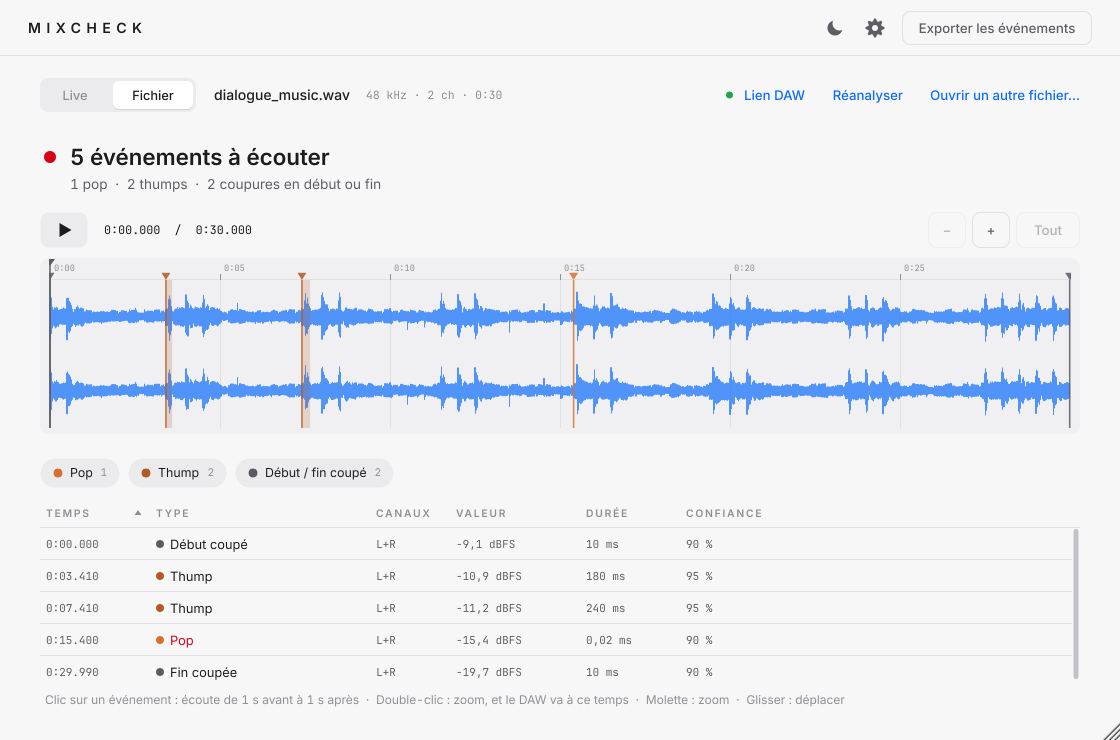
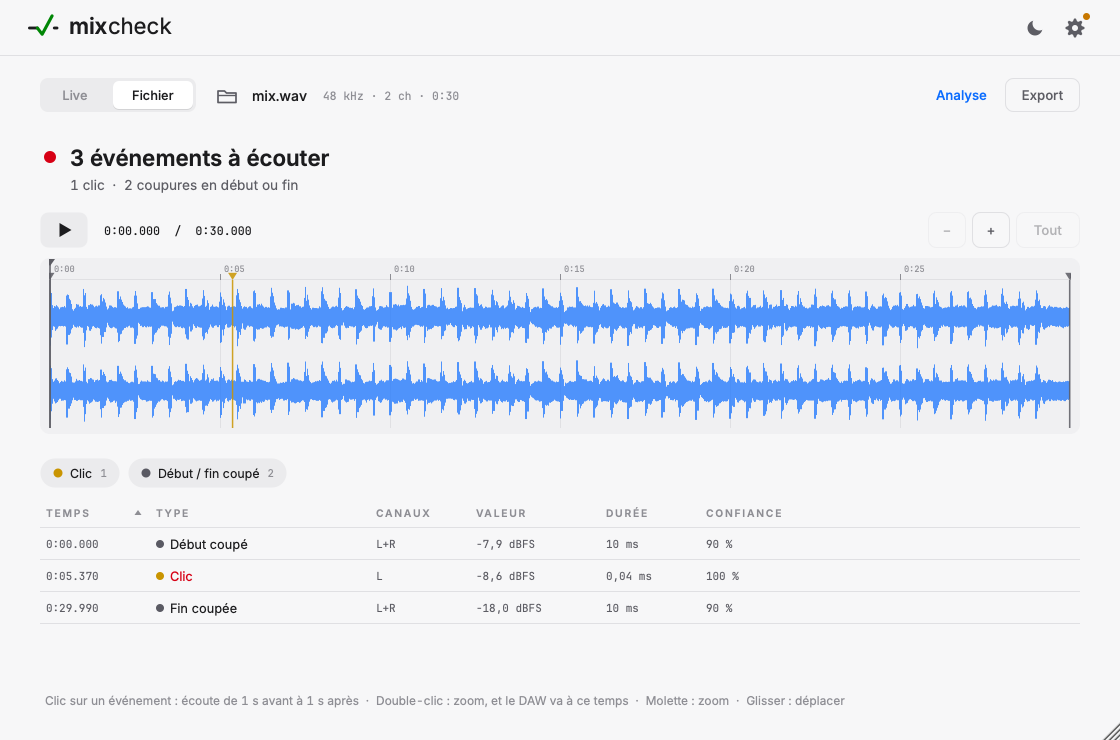
README : captures et texte alignés sur l'interface actuelle (0.2.2)

diff --git a/README.md b/README.md
@@ -2,6 +2,8 @@
 
 **Validation de mix avant livraison** : clics, pops, thumps, silences sans ambiance, ronflette, crêtes et écrêtage, problèmes de phase, et conformité loudness / dynamique aux normes du streaming, du broadcast et des plateformes vidéo.
 
+Dans cette version, l'interface (plugin et application) se concentre sur les **événements à écouter**. Les mesures de loudness, la conformité aux normes et la comparaison à une référence sont calculées par le même moteur, mais ne sont accessibles que par la **ligne de commande** : leurs onglets sont masqués.
+
 Ce dépôt contient seulement les **versions publiées** (pas le code source) : voir *Télécharger* ci-dessous.
 
 MixCheck existe sous trois formes, toutes construites sur le même moteur d'analyse :
@@ -10,7 +12,7 @@ MixCheck existe sous trois formes, toutes construites sur le même moteur d'anal
 |---|---|
 | **Plugin** VST3 · AU · CLAP | Inséré sur le bus master du DAW : analyse pendant la lecture ou pendant l'export hors ligne. Les événements sont positionnés sur la timeline du DAW. |
 | **Application** autonome (macOS, Windows) | Même interface que le plugin. Elle analyse un fichier audio, ou une entrée audio (carte son). |
-| **`mixcheck-cli`** | Analyse en ligne de commande, rapports JSON / HTML et code de sortie pour les scripts de livraison ou la CI. |
+| **`mixcheck-cli`** | Analyse en ligne de commande : événements, loudness, normes et référence, rapports JSON / HTML et code de sortie pour les scripts de livraison ou la CI. |
 
 ![Contrôle, thème sombre](docs/images/controle-sombre.png)
 
@@ -54,13 +56,14 @@ Pendant la bêta, MixCheck est **gratuit et entièrement débloqué**, sans limi
 
 Pour l'instant, une seule page : **les événements à écouter**. Les onglets Loudness, Référence et Normes sont masqués dans cette version.
 
-- Leur nombre par type, la timeline du fichier, **zoomable**, avec un bouton **lecture / stop**, des filtres par type et la liste.
+- Leur nombre par type, la timeline du fichier, **zoomable**, avec un bouton **lecture / stop**, des filtres par type et la liste (temps, type, canaux, valeur, durée, confiance).
 - Sélectionner un événement l'écoute **de 1 s avant à 1 s après**, puis la lecture s'arrête seule.
-- **Réglages** (roue crantée, en haut à droite) : activation et sensibilité de chaque détecteur, seuil true peak (-1, -2 ou -3 dBTP), analyse dans le DAW et **LINK DAW** (lien avec la timeline du DAW). **Analyse** applique les réglages au fichier affiché. **Français / English** (en haut à droite des Réglages) choisit la langue de l'interface, des exports et des marqueurs : le choix est enregistré et s'applique tout de suite (par défaut, la langue du système). **Vérifier les mises à jour au lancement** active ou coupe la notification de nouvelle version ; la **version installée** y est affichée.
+- **Réglages** (roue crantée, en haut à droite) : activation et sensibilité de chaque détecteur, seuil true peak (-1, -2 ou -3 dBTP), analyse dans le DAW (seulement pendant la lecture, remise à zéro à chaque lecture) et **LINK DAW** (lien avec la timeline du DAW). **Analyse** applique les réglages au fichier affiché. **Français / English** (en haut à droite des Réglages) choisit la langue de l'interface, des exports et des marqueurs : le choix est enregistré et s'applique tout de suite (par défaut, la langue du système). **Vérifier les mises à jour au lancement** active ou coupe la notification de nouvelle version ; la **version installée** y est affichée.
 
 - **Thème sombre ou clair** : bouton lune / soleil en haut à droite. Le choix est mémorisé ; au premier lancement, MixCheck suit le thème du système.
 - **Export** (à droite de la ligne du fichier, à côté de **Analyse**) : CSV, marqueurs MIDI, Reaper ou Audacity, ou **marqueurs dans le fichier pour iZotope RX** (voir plus bas).
 - **Mise à jour x.y.z** (en haut à droite) : apparaît quand une version plus récente est publiée (voir *Mises à jour*).
+- **Pastille ambre** sur la roue crantée : le début de session du lien DAW n'est pas renseigné (voir *Lien avec le DAW*).
 - Polices **Inter** et **JetBrains Mono**, embarquées.
 
 ![Contrôle, thème clair](docs/images/controle-clair.png)
@@ -68,6 +71,10 @@ Pour l'instant, une seule page : **les événements à écouter**. Les onglets L
 ![Réglages des détecteurs](docs/images/reglages.png)
 
 ## Ce que MixCheck vérifie
+
+### Événements, dans l'interface et la ligne de commande
+
+Les détecteurs s'activent dans les **Réglages** ; clics et pops, thumps et silences ont trois sensibilités (Basse, Moyenne, Haute).
 
 **Défauts audio**
 - **Clics** : impulsions de moins de 2 ms (coupe sans fondu, dépassement CPU, erreur numérique).
@@ -80,7 +87,6 @@ Pour l'instant, une seule page : **les événements à écouter**. Les onglets L
 **Silences sans ambiance** (dialogue)
 - **Silence numérique** : le son tombe à zéro au milieu du programme, typiquement un trou de montage sans ambiance de comblement. Le silence de tête et de fin est normal et n'est pas signalé.
 - **Trou d'ambiance** : le fond sonore chute nettement sous l'ambiance mesurée autour, sans aller jusqu'au zéro. Causes typiques : raccord sans ambiance, gate ou débruitage trop agressif.
-- Niveau d'ambiance estimé, en dBFS.
 
 **Livraison TV** (contrôles courants des QC broadcast : EBU QC, Netflix, diffuseurs)
 - **Ronflette** : raie stable à 50 ou 60 Hz, ou à leurs harmoniques (100, 150, 120, 180 Hz), pendant au moins 6 s, au-dessus de -80 dBFS. Une note de musique tenue n'est pas prise pour le secteur.
@@ -89,13 +95,18 @@ Pour l'instant, une seule page : **les événements à écouter**. Les onglets L
 - **Début / fin coupés** (fichiers) : le fichier commence ou finit en plein signal, sans silence ni fondu.
 
 **Crêtes**
-- True peak (ITU-R BS.1770-4, suréchantillonnage ×4).
-- Crête échantillon.
-- Dépassements horodatés.
+- Dépassements du seuil **true peak** (ITU-R BS.1770-4, suréchantillonnage ×4), réglable à -1, -2 ou -3 dBTP.
+
+### Mesures et conformité, en ligne de commande pour l'instant
+
+Ces mesures figurent dans les rapports HTML et JSON de `mixcheck-cli`. Leurs onglets (Loudness, Référence, Normes) sont masqués dans l'interface de cette version.
+
+**Crêtes** : true peak, crête échantillon, dépassements horodatés.
 
 **Loudness et dynamique**
 - Mesures EBU R128 : intégré (gating), momentary, short-term, Loudness Range (EBU Tech 3342).
-- **Loudness dialogue** : loudness mesuré uniquement pendant la parole, comme le demandent Netflix et Disney+. La parole est repérée par un détecteur intégré. Le pourcentage de parole est affiché, et les zones détectées apparaissent en vert sur l'historique pour vérification.
+- **Loudness dialogue** : loudness mesuré uniquement pendant la parole, comme le demandent Netflix et Disney+. La parole est repérée par un détecteur intégré ; le pourcentage de parole est indiqué.
+- Niveau d'ambiance estimé, en dBFS.
 - PLR, PSR médian, facteur de crête.
 
 **Phase et stéréo**
@@ -107,21 +118,21 @@ Pour l'instant, une seule page : **les événements à écouter**. Les onglets L
 - Streaming : Spotify, Apple Music, YouTube, Tidal, Amazon Music, Deezer, SoundCloud, podcasts.
 - Broadcast : EBU R128, R128 s1, ATSC A/85, ARIB TR-B32, OP-59.
 - Vidéo : Netflix, Amazon Prime Video, Disney+.
-- **Profils personnalisés**, éditables dans l'interface.
+- **Profils personnalisés** : créés depuis une référence (`--profile-from-reference`).
 
-**Référence** : chargez un master du commerce ou une version validée (WAV, AIFF, FLAC…) :
+**Référence** (`-r`) : un master du commerce ou une version validée (WAV, AIFF, FLAC…) :
 - comparaison des loudness, PLR, LRA et largeur stéréo ;
 - **balance tonale à loudness égal**, par bandes de 1/3 d'octave ;
-- **écoute alignée en loudness** : Mix, Référence ou Fichier analysé ;
-- création d'un profil de conformité à partir de la référence.
+- création d'un profil de conformité à partir de la référence (`--profile-from-reference`).
 
-![Référence](docs/images/reference.png)
+## Exports
 
-**Exports** (bouton **Export**)
-- Rapports : HTML lisible, JSON complet.
-- Liste d'événements en CSV.
-- Marqueurs pour le DAW : **fichier MIDI** (Pro Tools, Logic, Cubase…), **CSV Reaper**, **labels Audacity**.
+Bouton **Export**, à droite de la ligne du fichier :
+- **Événements CSV** ;
+- marqueurs pour le DAW : **Marqueurs MIDI** (Pro Tools, Logic, Cubase…), **Marqueurs Reaper** (CSV), **Labels Audacity** ;
 - **Marqueurs dans le fichier (iZotope RX)** : voir ci-dessous.
+
+Les rapports **HTML** (lisible) et **JSON** (complet) sont produits par la ligne de commande (`--html`, `--json`).
 
 ### Marqueurs pour iZotope RX
 En mode Fichier, **Export › Marqueurs dans le fichier (iZotope RX)…** ouvre une fenêtre où l'on coche les **types d'événements** à marquer (au départ : ceux affichés par les filtres). Chaque événement devient un marqueur inscrit dans le WAV (chunks `cue` et `adtl`, lus par iZotope RX, WaveLab, Sound Forge, Audition) ; les défauts d'au moins 0,1 s deviennent des **régions**. Le nom du marqueur reprend la description de l'événement (« Clic (L) -8,6 dBFS »), en ASCII pour s'afficher partout.
@@ -132,6 +143,8 @@ En mode Fichier, **Export › Marqueurs dans le fichier (iZotope RX)…** ouvre 
 
 - **Ouvrir automatiquement dans RX** (case à côté de **Enregistrer une copie…**) : une fois les marqueurs écrits (dans le fichier ou dans la copie), le fichier s'ouvre directement dans RX. Le choix est enregistré et retrouvé aux ouvertures suivantes. MixCheck lance la version la plus récente installée (macOS : `/Applications/iZotope RX … Audio Editor.app` ; Windows : `Program Files\iZotope\…`) ; **Choisir… / Changer…** désigne une autre application.
 
+![Marqueurs pour iZotope RX](docs/images/marqueurs-rx.png)
+
 Dans RX, les marqueurs apparaissent sur la timeline et dans la fenêtre *Markers & Regions*. Si le fichier y est déjà ouvert, fermez-le d'abord pour relire les nouveaux marqueurs.
 
 ## Utilisation
@@ -141,7 +154,7 @@ Dans RX, les marqueurs apparaissent sur la timeline et dans la fenêtre *Markers
 2. Lancez la lecture, ou un **export hors ligne** : le plugin attend l'analyse, aucun échantillon n'est perdu.
 3. La page liste les événements détectés, positionnés sur la timeline du DAW : **un double-clic sur un événement place la tête de lecture du DAW sur ce temps** (voir *Lien avec le DAW*).
 
-Les résultats, le profil et la référence sont enregistrés avec le projet.
+Les résultats et les réglages sont enregistrés avec le projet.
 
 ### Application autonome
 - **Live** analyse l'entrée audio choisie dans les options de l'application. Un **vumètre d'entrée** (crête par canal et loudness momentary) montre que le signal arrive.
@@ -164,14 +177,14 @@ Un double-clic sur un événement envoie aussi le DAW à cet endroit. Le début 
 ![Contrôle : timeline zoomée sur un événement en cours d'écoute](docs/images/controle-zoom.png)
 
 ### Lien avec le DAW
-Le bouton **LINK DAW**, dans les **Réglages** (roue crantée), ouvre les réglages du lien ; son état est affiché à côté (pastille verte : prêt).
+Le bouton **LINK DAW**, dans les **Réglages** (roue crantée), ouvre les réglages du lien ; son état est affiché à côté (pastille verte : prêt). **Méthode** : *Automatique* (API de REAPER si elle est disponible, sinon MMC), *MMC* ou *Désactivé*.
 
 | DAW | Fonctionnement | Réglage |
 |---|---|---|
 | **REAPER** (VST3, CLAP) | API de REAPER : la tête de lecture va exactement au temps | Aucun |
 | **Pro Tools** | Commande MIDI Machine Control « Locate » sur le port MIDI virtuel « MixCheck » (ou un bus IAC) | Configuration › Périphériques › Machine Control › « MIDI Machine Control Remote (Slave) » coché, même ID que dans **LINK DAW** (127 par défaut), entrée « MixCheck ». Le port doit aussi être coché dans Configuration › MIDI › Périphériques d'entrée MIDI |
 | **Logic Pro** | Idem | Réglages du projet › Synchronisation › MIDI › « Écouter l'entrée MMC », entrée « MixCheck » |
-| **Cubase / Nuendo** | Idem | Configuration de la synchronisation du projet › « MMC Slave Active », entrée MMC « MixCheck » |
+| **Cubase / Nuendo** | Idem | Transport › Configuration de la synchronisation du projet › « MMC Slave Active », entrée MMC « MixCheck » |
 | Studio One, Ableton Live | Pas de MMC Locate : le temps est copié dans le presse-papiers | — |
 
 - Le port virtuel « MixCheck » existe tant que MixCheck est ouvert (macOS, Linux). Sous Windows, il n'y a pas de port virtuel : créez-en un avec loopMIDI et choisissez-le dans **LINK DAW**.
@@ -202,7 +215,7 @@ Codes de sortie : `0` conforme ou avertissements, `2` non conforme (selon le pre
 
 ## Limites connues
 - **Loudness dialogue** : c'est une approximation de Dolby Dialogue Intelligence, l'outil propriétaire utilisé par Netflix et Disney+. Sur nos tests de parole française synthétique, l'écart est de 0,1 à 0,8 LU. Le chant peut être compté comme parole, et une voix très traitée ou noyée peut être sous-détectée.
-- **Langue** : les noms des paramètres vus par le DAW (automation) prennent la langue choisie au chargement du plugin ; après un changement, ils suivent au prochain chargement. Les messages des normes et le rapport HTML (masqués dans cette version) restent en français, comme la ligne de commande.
+- **Langue** : les noms des paramètres vus par le DAW (automation) prennent la langue choisie au chargement du plugin ; après un changement, ils suivent au prochain chargement. La ligne de commande, ses rapports et les messages des normes restent en français.
 - Les détecteurs de défauts sont des **heuristiques**. Chaque événement porte un indice de confiance et doit être confirmé à l'écoute. Trois réglages de sensibilité existent : Basse, Moyenne, Haute.
 - **Windows** : pas encore de zip publié pour la 0.2.x.
 - Les valeurs des normes évoluent. Vérifiez le cahier des charges de votre diffuseur. Les profils intégrés indiquent leur source et leur date.
